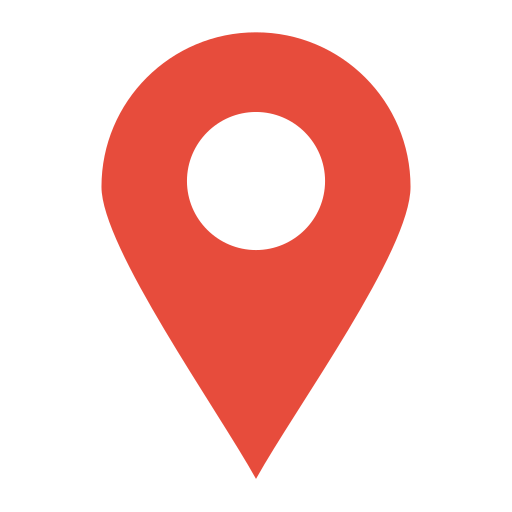
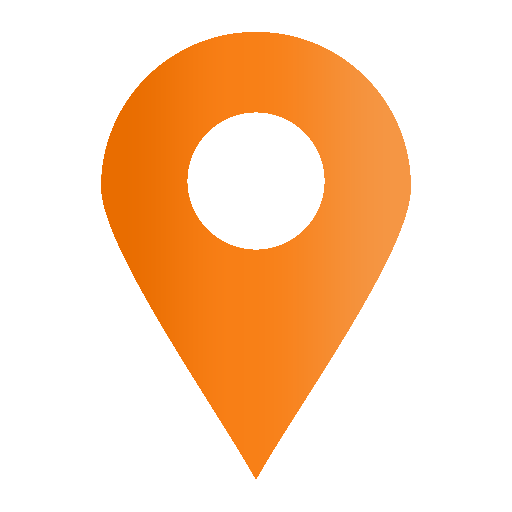
added events map

Changed region(s): [[0.1875, 0.0625, 0.8125, 0.9375]]

diff --git a/src/sites/MainPage/Events/EventsMap.jsx b/src/sites/MainPage/Events/EventsMap.jsx
@@ -1,42 +1,52 @@
 import { useEffect, useState } from "react";
-import { apiFetch } from "../../../interceptor/interceptor.jsx";
-import { BASE_URL, ENDPOINTS } from "../../../utils/Endopoints.jsx";
+// import { apiFetch } from "../../../interceptor/interceptor.jsx";
+// import { BASE_URL, ENDPOINTS } from "../../../utils/Endopoints.jsx";
 import NavBar from "../components/NavBar.jsx";
 import SideBar from "../components/SideBar.jsx";
 import './../../../styles/mainpage.css'
 import { FaAngleDown as AngleDown, FaSlidersH as Settings, FaSearch as Search } from "react-icons/fa";
 import { BiMap as PinMap } from "react-icons/bi";
-import { Link, useNavigate } from "react-router-dom";
-import eventImg from '../../../assets/images/event.png'
-function Events(){
-  const [events, setEvents] = useState([])
+// import { Link } from "react-router-dom";
+// import eventImg from '../../../assets/images/event.png'
+import locIcon from "./../../../assets/images/location-pin.png";
+import { MapContainer, TileLayer, Marker, Popup, useMapEvents, useMap } from "react-leaflet";
+import { Icon } from "leaflet";
+import "leaflet/dist/leaflet.css";
+import { apiFetch } from "../../../interceptor/interceptor.jsx";
+import { BASE_URL, ENDPOINTS } from "../../../utils/Endopoints.jsx";
+import MarkerClusterGroup from 'react-leaflet-cluster';
+import { useNavigate } from "react-router-dom";
+
+function EventsMap(){
   const [showFilters, setShowFilters] = useState(false);
+  const [events, setEvents] = useState([]);
   const navigate = useNavigate();
 
   useEffect(() => {
-    const getEvents = async () => {
-        try{
-          const response = await apiFetch(`${BASE_URL}${ENDPOINTS.eventEvents}`); // GET
-          const data = await response.json();
+    const getEventsMapInfo = async () => {
+      try{
+        const response = await apiFetch(`${BASE_URL}${ENDPOINTS.eventEvents}events_on_map/`);
 
-          if(!response.ok){
-            throw new Error(data.details || "błąd");
-          }
+        const data = await response.json();
+        console.log("eventy na mapie", data)
+        setEvents(data);
 
-          setEvents((data.results || data || []).sort((a, b) => a.id - b.id));
-          console.log(data.results)
-        }
-        catch(err){
-          console.error(err)
-        }
       }
-
-    getEvents();
+      catch(err){
+        console.error(err);
+      }
+    }
+    getEventsMapInfo();
   }, [])
 
   const handleFiltersApply = () => {
     setShowFilters(false);
   }
+
+  const customMarker = new Icon({
+    iconUrl: locIcon,
+    iconSize: [38, 38],
+  });
 
   return(
     <>
@@ -167,83 +177,42 @@ function Events(){
                 <input type="text" className="search-input" id="search-input" placeholder="Wyszukaj..." />
                 <Search id="search-icon" className="icon"/>
               </div>
-              <button id="map-icon" className="filter-button hom2" onClick={() => navigate('/events/events-map')}><PinMap />Mapa wydarzeń</button>
+              <button id="map-icon" className="filter-button hom2" onClick={() => navigate('/events')}>Lista wydarzeń</button>
             </div>
           </nav>
-          <div className="events">
-            {events.map((event) => {
-              const date = new Date(event.date_time_event);
-              const formattedDate = date.toLocaleString("pl-PL", {
-                weekday: "long",
-                year: "numeric",
-                month: "long",
-                day: "2-digit",
-                hour: "2-digit",
-                minute: "2-digit",
-              });
-
-              const capitalizedDate = formattedDate.slice(0, 1).toUpperCase() + formattedDate.slice(1)
-              const levels = {
-                  none: "Brak",
-                  beginner: "Początkujący",
-                  "semi-advanced": "Średnio zaawansowany",
-                  advanced: "Zaawansowany"
-              };
-              const advancedLevel = levels[event.additional_info.advanced_level];
-              
-              return (
-                <div key={event.id} className="event">
-                  <div className="event-content">
-                    <div className="event-content-left">
-                      <p className="event-date">{capitalizedDate} - <span className="event-type">Event Cykliczny</span></p>
-                      <h2 className="event-title">{event.title}</h2>
-                      <p className="event-short-desc">{event.short_desc}</p>
-                      <div className="event-info-box">
-                        <div className="event-info">
-                          <span className="event-info-title">Kategoria:</span><br />
-                          <span className="event-info-value">{event.category_name}</span>
-                        </div>
-                        <div className="event-info">
-                          <span className="event-info-title">Grupa wiekowa:</span><br />
-                          <span className="event-info-value">{event.additional_info.age_limit}</span>
-                        </div>
-                        <div className="event-info">
-                          <span className="event-info-title">Poziom zaawansowania:</span><br />
-                          <span className="event-info-value">{advancedLevel}</span>
-                        </div>
-                      </div>
-                    </div>
-                    <div className="event-content-right">
-                      <div className="event-img-wrapper"> 
-                        <img src={eventImg} alt="event" />
-                        <span className="event-img-location"><PinMap className="img-location-pin icon" /> {event.city}, {event.street} {/*{event.street_number ? event.street_number : ""}{event.flat_number ? `/${event.flat_number}` : ""}*/}</span>
-                        <span className={`event-img-payable-status ${event.additional_info.price == 0 ? "green" : "red"}`}>{event.additional_info.price == 0 ? "Bezpłatny" : "Płatny"}</span>
-                      </div>
-                    </div>
-                  </div>
-                  <div className="more-event-info">
-                    <div className="progress-box">
-                      <input 
-                        type="range" 
-                        min={0} 
-                        max={event.additional_info.places_for_people_limit} 
-                        value={event.event_participant_count} 
-                        readOnly
-                        className="progress-range"
-                        style={{background: `linear-gradient(to right, #f57c00 ${(event.event_participant_count / event.additional_info.places_for_people_limit) * 100}%, #ffd9b3 0%)`}}
-                      />
-                      <span className="quantity-of-people">{event.event_participant_count} / {event.additional_info.places_for_people_limit}</span>
-                    </div>
-                    <Link className="more-bout-event" to={`/events/${event.id}`}>Zobacz szczegóły <span className="hom">↗</span></Link>
-                  </div>
-                </div>
-              );
-            })}
+          <div className="events-map-container">
+            <MapContainer 
+              center={[52.237049, 21.017532]}
+              zoom={7}
+              scrollWheelZoom={true}
+              style={{ width: "100%", height: "100%", borderRadius: "10px" }}
+            >
+              <TileLayer
+                attribution='&copy; <a href="https://www.openstreetmap.org/">OpenStreetMap</a> contributors'
+                url="https://{s}.tile.openstreetmap.org/{z}/{x}/{y}.png"
+              />
+             <MarkerClusterGroup
+              iconCreateFunction={(cluster) => {
+                const count = cluster.getChildCount();
+                return L.divIcon({
+                  html: `<div class="custom-cluster">${count}</div>`,
+                  className: 'my-cluster-icon',
+                  iconSize: L.point(40, 40, true),
+                });
+              }}
+            >
+              {events.map(event => (
+                <Marker key={event.id} position={[event.latitude, event.longitude]} icon={customMarker}>
+                  <Popup>{event.title}</Popup>
+                </Marker>
+              ))}
+            </MarkerClusterGroup>
+            </MapContainer>
           </div>
         </div>
-      </main>
+      </main>      
     </>
   )
 }
 
-export default Events
+export default EventsMap

diff --git a/src/styles/mainpage.css b/src/styles/mainpage.css
@@ -805,6 +805,11 @@ input[type="number"]::-webkit-outer-spin-button{
     text-decoration: none;
     font-size: 12px;
     font-weight: 500;
+    display: inline;
+    vertical-align: middle;
+}
+.more-bout-event span{
+    font-size: 20px;
 }
 .quantity-of-people{
     color: black;
@@ -1551,7 +1556,7 @@ input[type="number"]::-webkit-outer-spin-button{
     width: clamp(200px, 300px, 400px);
     padding: 10px;
     background-color: white;
-    z-index: 112;
+    z-index: 900;
     border-radius: 12px;
     box-shadow: 3px 3px 8px 0 rgba(0, 0, 0, 0.25);
 }
@@ -1633,6 +1638,41 @@ input[type="number"]::-webkit-outer-spin-button{
     cursor: pointer;
     display: none;
 }
+#map-icon{
+    cursor: pointer;
+}
+
+/* mapa eventow */
+
+.events-map-container{
+    width: calc(100% - 40px);
+    height: calc(100vh - 220px);
+    max-height: 711px;
+    margin: 20px;
+    border-radius: 24px;
+}
+.my-cluster-icon{
+  background: var(--main-gradient);
+  color: white;
+  font-size: 20px;
+  font-weight: 600;
+  border-radius: 50%;
+  display: flex;
+  align-items: center;
+  justify-content: center;
+  border: 3px solid white;
+  box-shadow: 0 2px 5px rgba(0,0,0,0.3);
+}
+.custom-cluster{
+    display: flex;
+    height: 40px;
+    align-items: center;
+    justify-content: center;
+}
+
+
+/* media */
+
 @media (max-width: 1405px) {
     .events{
         grid-template-columns: minmax(350px, calc(50% + 350px));
@@ -1705,6 +1745,7 @@ input[type="number"]::-webkit-outer-spin-button{
     .invitation-second-row-button-box{
         order: 1;
         align-self: center;
+        flex-wrap: wrap;
     }
     .invitation-second-row-link{
         order: 2;

diff --git a/src/App.jsx b/src/App.jsx
@@ -12,6 +12,7 @@ import AddEvent2 from './sites/MainPage/Events/AddEvent2.jsx'
 import { EventProvider } from './utils/EventContext.jsx'
 import EventDetails from './sites/MainPage/Events/EventDetails.jsx'
 import EventInvitation from './sites/MainPage/Events/EventInvitation.jsx'
+import EventsMap from './sites/MainPage/Events/EventsMap.jsx'
 
 
 function App() {
@@ -27,6 +28,7 @@ function App() {
             <Route path='/forgot-password/verify' element={<ForgotPasswordVerify />} />
             <Route path='/forgot-password/change-password' element={<ChangePassword />} />npm run d
             <Route path='/events' element={<Events />} />
+            <Route path='/events/events-map' element={<EventsMap />} />
             <Route path="/events/:id" element={<EventDetails />} />
             <Route
               path="/events/add-event/*"

diff --git a/src/sites/MainPage/Events/EventDetails.jsx b/src/sites/MainPage/Events/EventDetails.jsx
@@ -386,14 +386,14 @@ function EventDetails(){
           console.log("dane listy uczestnikow:", data);
 
           // setParticipants(data.results || []);
-          console.log(participants)
+          console.log("participants", participants)
         }
         catch(err){
           console.error(err);
         }
       }
-      getParticipantList();
     }
+    getParticipantList();
   }, [id, page]);
 
   useEffect(() => {
@@ -415,8 +415,8 @@ function EventDetails(){
           console.error(err);
         }
       }
-      getInvitations();
     }
+    getInvitations();
   }, [id, page])
 
 	const addGuest = () => {
